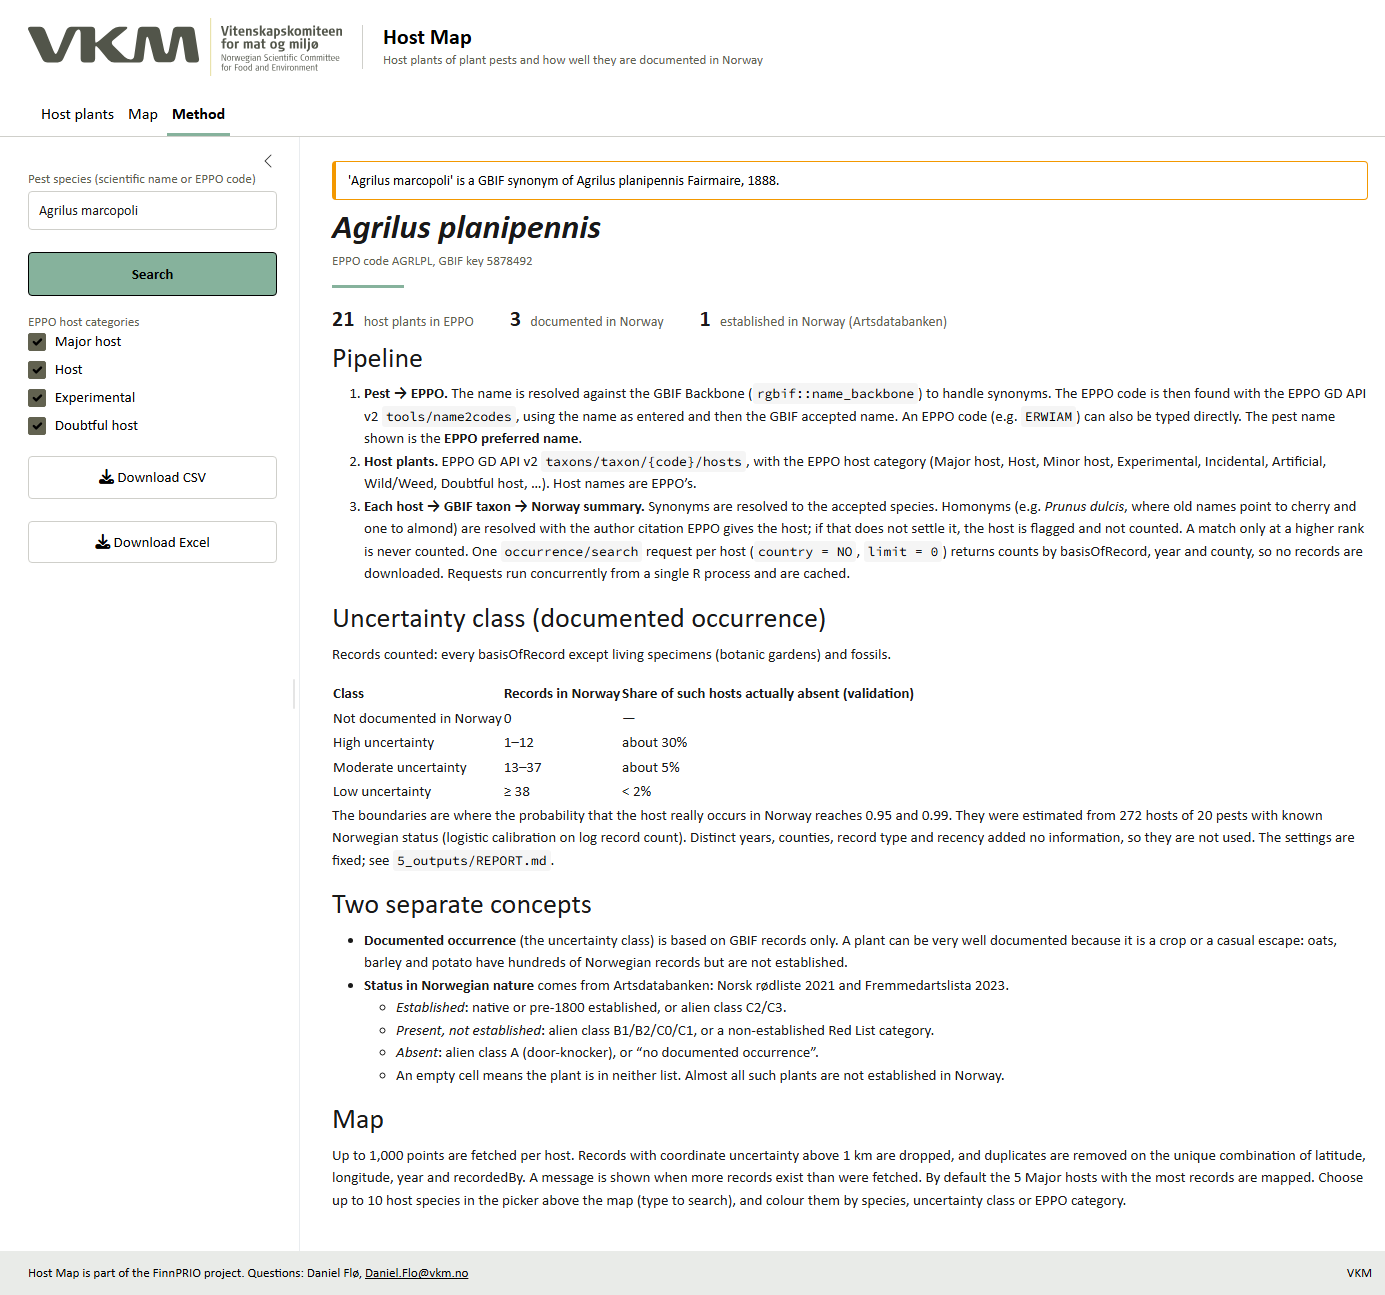
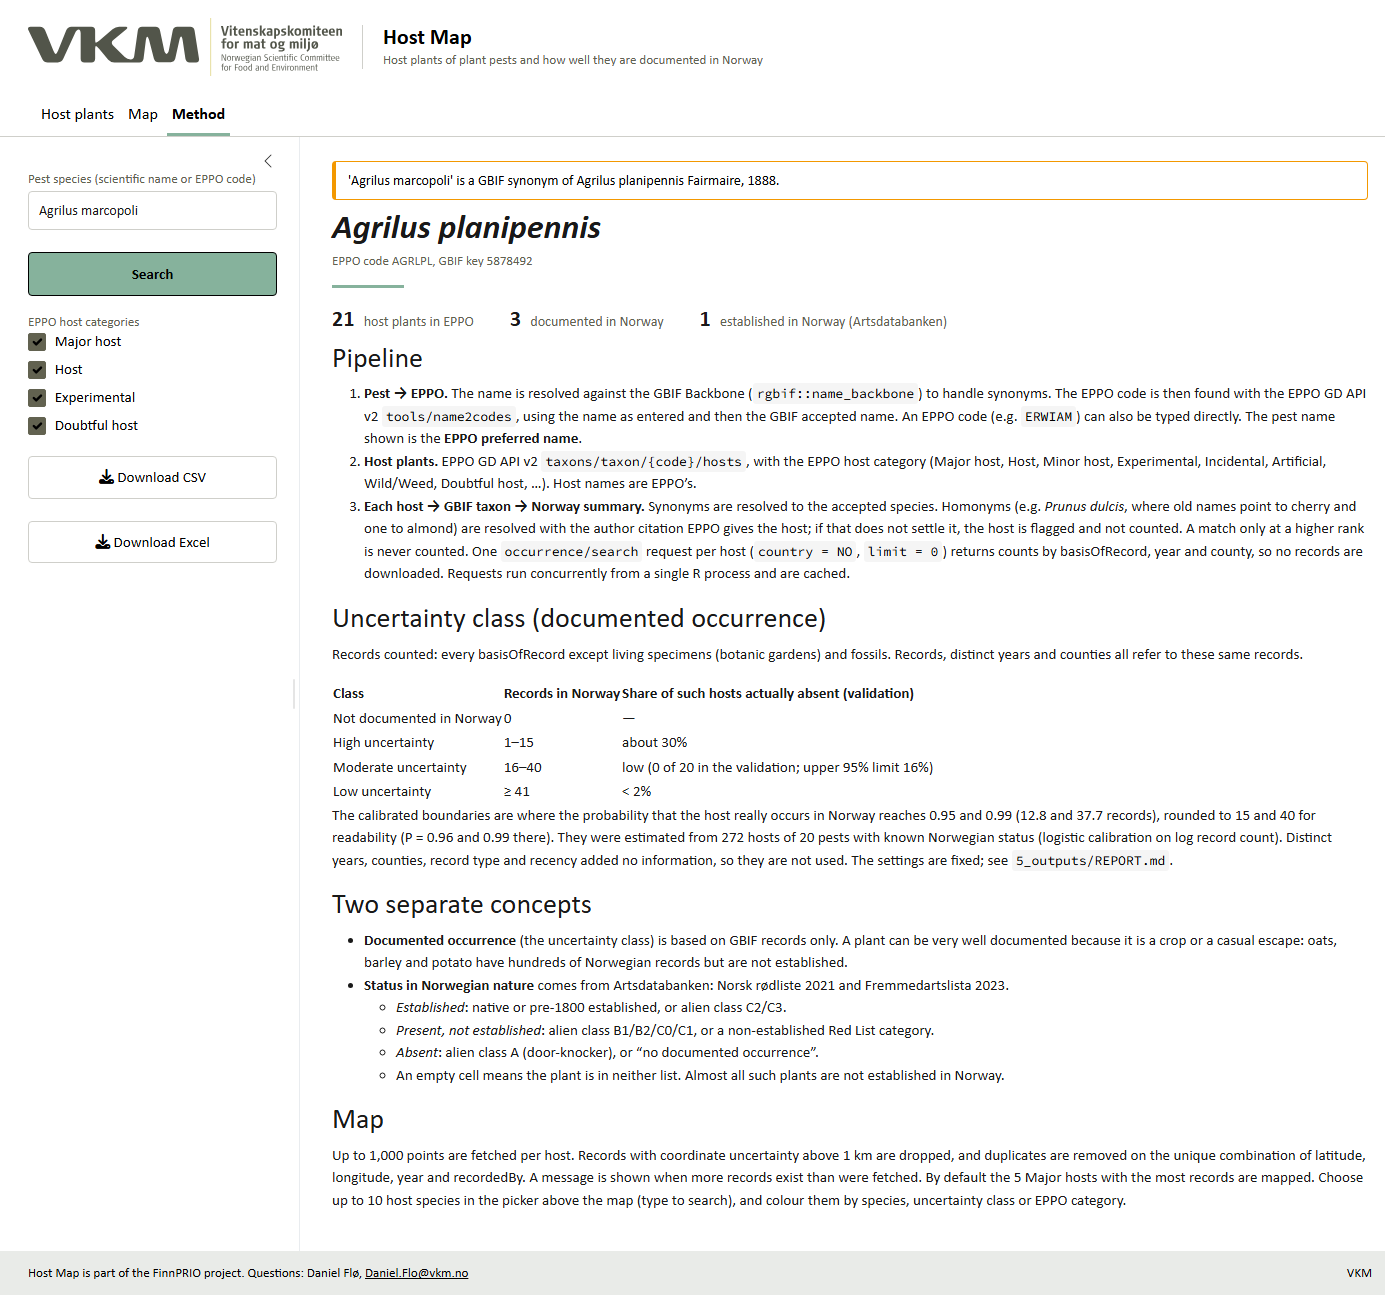
Rounded uncertainty thresholds 1-15 / 16-40 / >=41; align years and counties
- thresholds rounded from the calibrated 12.8 / 37.7 records (P(present) =
  0.96 / 0.99 at 15 / 40; inside the bootstrap CIs); report, method,
  vignette and README updated with the error rates for the adopted rule
- records, distinct years and counties now come from one GBIF request
  filtered to the counted record types (no living/fossil specimens), so a
  host can no longer show 0 records but 2 years

Changed region(s): [[0.2484, 0.5869, 0.9625, 0.6795], [0.652, 0.4942, 0.9314, 0.5251]]

diff --git a/3_metadata/method.md b/3_metadata/method.md
@@ -6,16 +6,16 @@
 
 ### Uncertainty class (documented occurrence)
 
-Records counted: every basisOfRecord except living specimens (botanic gardens) and fossils.
+Records counted: every basisOfRecord except living specimens (botanic gardens) and fossils. Records, distinct years and counties all refer to these same records.
 
 | Class | Records in Norway | Share of such hosts actually absent (validation) |
 |---|---|---|
 | Not documented in Norway | 0 | — |
-| High uncertainty | 1–12 | about 30% |
-| Moderate uncertainty | 13–37 | about 5% |
-| Low uncertainty | ≥ 38 | < 2% |
+| High uncertainty | 1–15 | about 30% |
+| Moderate uncertainty | 16–40 | low (0 of 20 in the validation; upper 95% limit 16%) |
+| Low uncertainty | ≥ 41 | < 2% |
 
-The boundaries are where the probability that the host really occurs in Norway reaches 0.95 and 0.99. They were estimated from 272 hosts of 20 pests with known Norwegian status (logistic calibration on log record count). Distinct years, counties, record type and recency added no information, so they are not used. The settings are fixed; see `5_outputs/REPORT.md`.
+The calibrated boundaries are where the probability that the host really occurs in Norway reaches 0.95 and 0.99 (12.8 and 37.7 records), rounded to 15 and 40 for readability (P = 0.96 and 0.99 there). They were estimated from 272 hosts of 20 pests with known Norwegian status (logistic calibration on log record count). Distinct years, counties, record type and recency added no information, so they are not used. The settings are fixed; see `5_outputs/REPORT.md`.
 
 ### Two separate concepts
 

diff --git a/3_metadata/vignette.md b/3_metadata/vignette.md
@@ -24,7 +24,7 @@ Each row is one EPPO host. The columns:
 |---|---|
 | Host plant (EPPO), EPPO category | Name and category exactly as in the EPPO Global Database |
 | GBIF name, Match note | The accepted GBIF taxon used for counting. The note flags synonyms, ambiguous names and names that could not be matched |
-| Records in Norway, Distinct years, Counties | GBIF records from Norway (all record types except botanic-garden living specimens and fossils) |
+| Records in Norway, Distinct years, Counties | GBIF records from Norway (all record types except botanic-garden living specimens and fossils); all three columns describe the same records |
 | **Uncertainty class** | How sure we can be that the host **occurs** in Norway, judged from the records |
 | **Status in Norwegian nature** | Artsdatabanken's assessment of whether it is **established** |
 | GBIF, Artskart | Links to the records |
@@ -34,9 +34,9 @@ The uncertainty classes are calibrated against Artsdatabanken's lists (see `5_ou
 | Class | Records | Of such hosts, share actually absent from Norway |
 |---|---|---|
 | Not documented in Norway | 0 | — |
-| High uncertainty | 1–12 | about 30% |
-| Moderate uncertainty | 13–37 | about 5% |
-| Low uncertainty | ≥ 38 | < 2% |
+| High uncertainty | 1–15 | about 30% |
+| Moderate uncertainty | 16–40 | low (0 of 20 in the validation; upper 95% limit 16%) |
+| Low uncertainty | ≥ 41 | < 2% |
 
 **How to read the example.**
 

diff --git a/README.md b/README.md
@@ -36,7 +36,7 @@ rsconnect::deployApp(appFiles = c("app.R", ".Renviron", "4_scripts/hostmap_funct
 | Resolve the pest name and synonyms | GBIF Backbone (`rgbif::name_backbone`) |
 | Pest → EPPO code → EPPO preferred name → host list with categories | EPPO GD API v2 |
 | Host → GBIF taxon → Norwegian record count, years, counties, basisOfRecord | GBIF `occurrence/search` (`limit = 0`, facets) |
-| Uncertainty class for documented occurrence: 0 / 1–12 / 13–37 / ≥ 38 records | Calibrated in `5_outputs/REPORT.md` |
+| Uncertainty class for documented occurrence: 0 / 1–15 / 16–40 / ≥ 41 records | Calibrated in `5_outputs/REPORT.md` |
 | Status in Norwegian nature (a separate concept) | Artsdatabanken (shipped table) |
 | Map: key-free tiles (Esri light grey default) | GBIF points, capped, precision-filtered and de-duplicated |
 | Export | CSV and Excel (with a settings sheet) |
